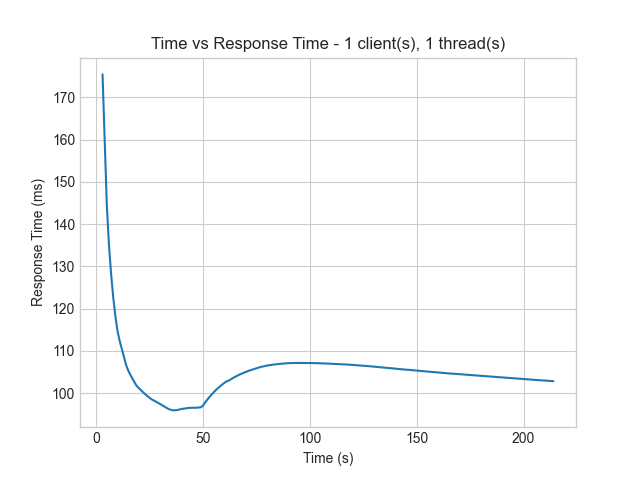
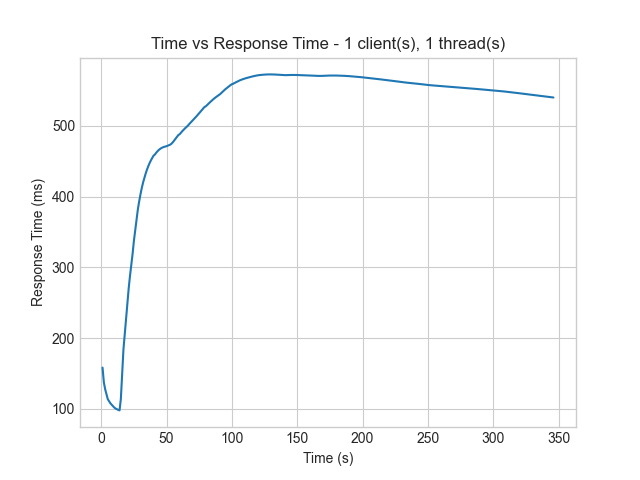
benchmark updates

diff --git a/benchmark/benchmark.py b/benchmark/benchmark.py
@@ -20,9 +20,9 @@ tot, cnt = 0, 0
 avgs = []
 times = []
 
-def add_cam(cams):
+def add_cam(cams, broker, port):
     cam = Camera(f"cam{len(cams)}", "bench", "#52e8be")
-    cam.connect("oz.andrew.cmu.edu", 9001)
+    cam.connect(broker, port)
     cams += [cam]
 
 def move_cam(cams, killer):
@@ -42,7 +42,7 @@ def move_cam(cams, killer):
         if killer.kill_now:
             break
 
-def main(num_cams, num_threads):
+def main(num_cams, num_threads, broker, port):
     global lock
     global tot
     global cnt
@@ -54,7 +54,7 @@ def main(num_cams, num_threads):
     cams = []
     threads = []
     for _ in range(num_cams):
-        add_cam(cams)
+        add_cam(cams, broker, port)
 
     bins = np.array_split(np.array(cams), num_threads)
     for i in range(num_threads):
@@ -62,17 +62,19 @@ def main(num_cams, num_threads):
         threads += [thread]
         thread.start()
 
-    start_t = time.time()*1000000
+    start_t = time.time()*1000
     while True:
-        now = time.time()*1000000
-        if int(now - start_t) % 1000000 == 0:
+        now = time.time()*1000
+        if int(now - start_t) % 1000 == 0:
             with lock:
                 if cnt != 0:
                     avgs += [tot / cnt]
-                    times += [int(now - start_t) // 1000000]
+                    times += [int(now - start_t) / 1000]
+            time.sleep(0.01)
 
         if killer.kill_now:
-            break
+            if input("Terminate [y/n]? ") == "y":
+                break
 
     for thread in threads:
         thread.join()
@@ -80,13 +82,11 @@ def main(num_cams, num_threads):
     for c in cams:
         c.disconnect()
 
-    print()
-
     plt.plot(times, avgs)
     plt.title(f"Time vs Response Time - {num_cams} client(s), {num_threads} thread(s)")
     plt.xlabel("Time (s)")
     plt.ylabel("Response Time (ms)")
-    plt.savefig(f'plots/time_vs_lat_{num_cams}_{num_threads}.png')
+    plt.savefig(f'plots/time_vs_lat_{num_cams}_{num_threads}_2.png')
     # plt.show()
 
 if __name__ == "__main__":
@@ -96,6 +96,10 @@ if __name__ == "__main__":
                         default=1)
     parser.add_argument("-t", "--num_threads", type=int, help="Number of threads to spawn",
                         default=1)
+    parser.add_argument("-b", "--broker", type=str, help="Broker to connect to",
+                        default="oz.andrew.cmu.edu")
+    parser.add_argument("-p", "--port", type=int, help="Port to connect to",
+                        default=9001)
 
     args = parser.parse_args()
 

diff --git a/benchmark/camera.py b/benchmark/camera.py
@@ -43,14 +43,14 @@ class Camera(object):
             self.lat = self.lat_total / self.lat_cnt
 
     def move(self):
-        self.pos[0] += rand_norm(0, 0.3)
-        self.pos[1] += rand_norm(0, 0.1)
-        self.pos[2] += rand_norm(0, 0.3)
+        self.pos[0] += rand_norm(0, 0.1)
+        self.pos[1] += rand_norm(0, 0.05)
+        self.pos[2] += rand_norm(0, 0.1)
 
-        self.rot[0] += rand_norm(0, 0.05)
-        self.rot[1] += rand_norm(0, 0.05)
-        self.rot[2] += rand_norm(0, 0.05)
-        self.rot[3] = 1
+        self.rot[0] += rand_norm(0, 0.01)
+        self.rot[1] += rand_norm(0, 0.01)
+        self.rot[2] += rand_norm(0, 0.01)
+        self.rot[3] += rand_norm(0, 0.01)
 
         arena_json = self.create_json()
         self.client.publish(f"realm/s/{self.scene}", arena_json)
